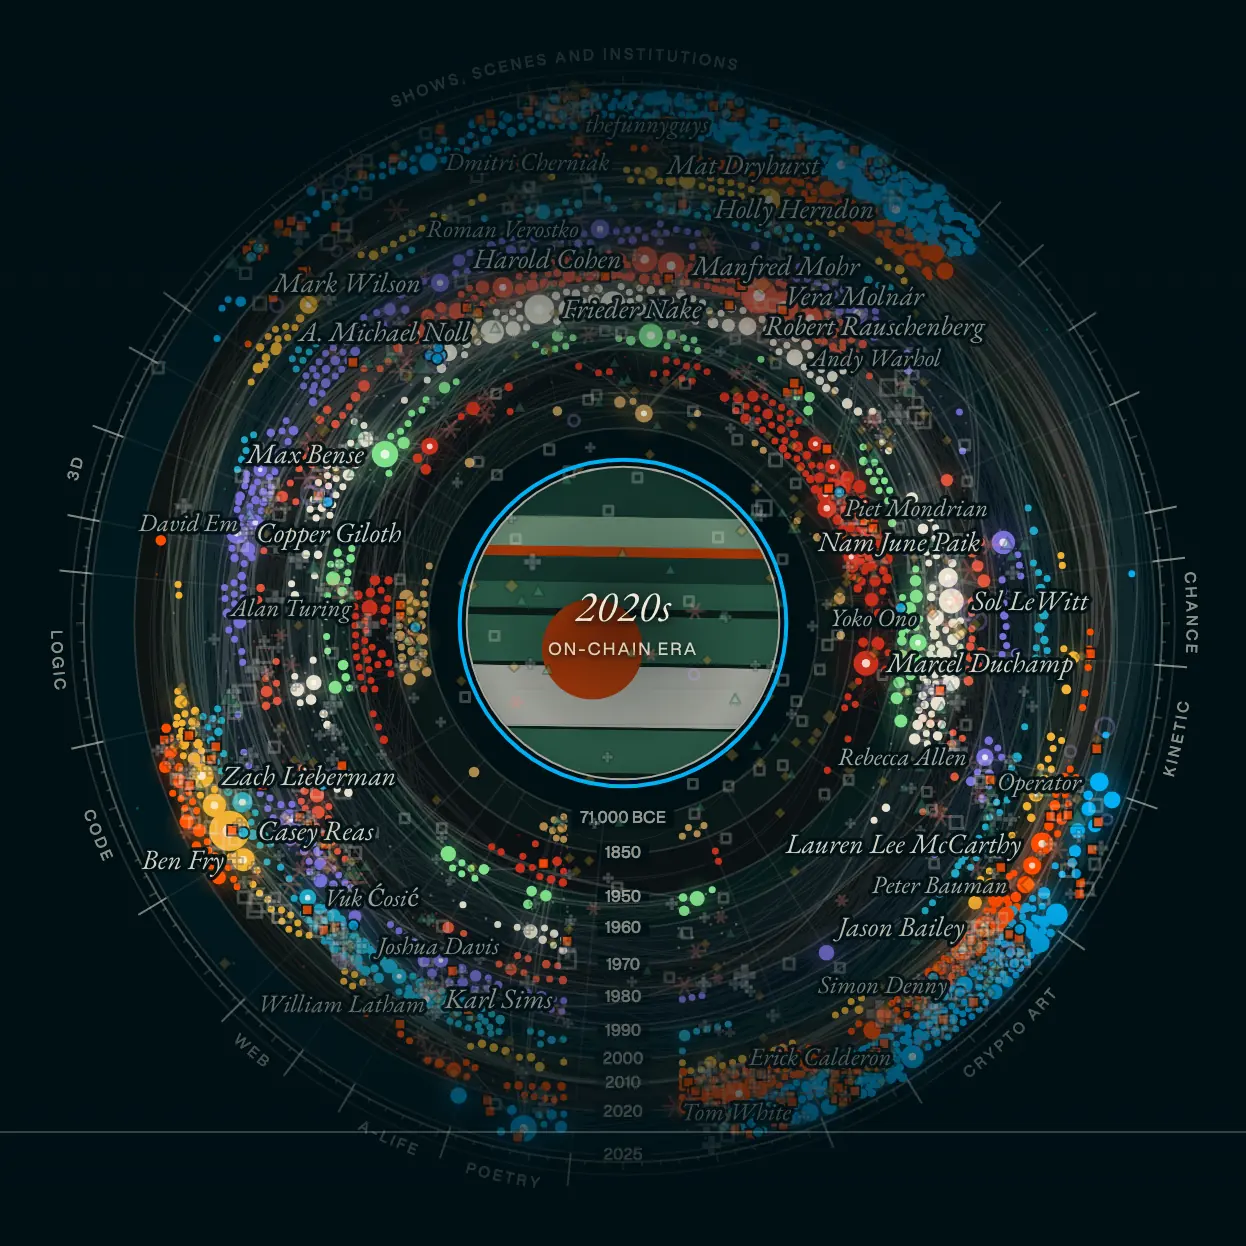
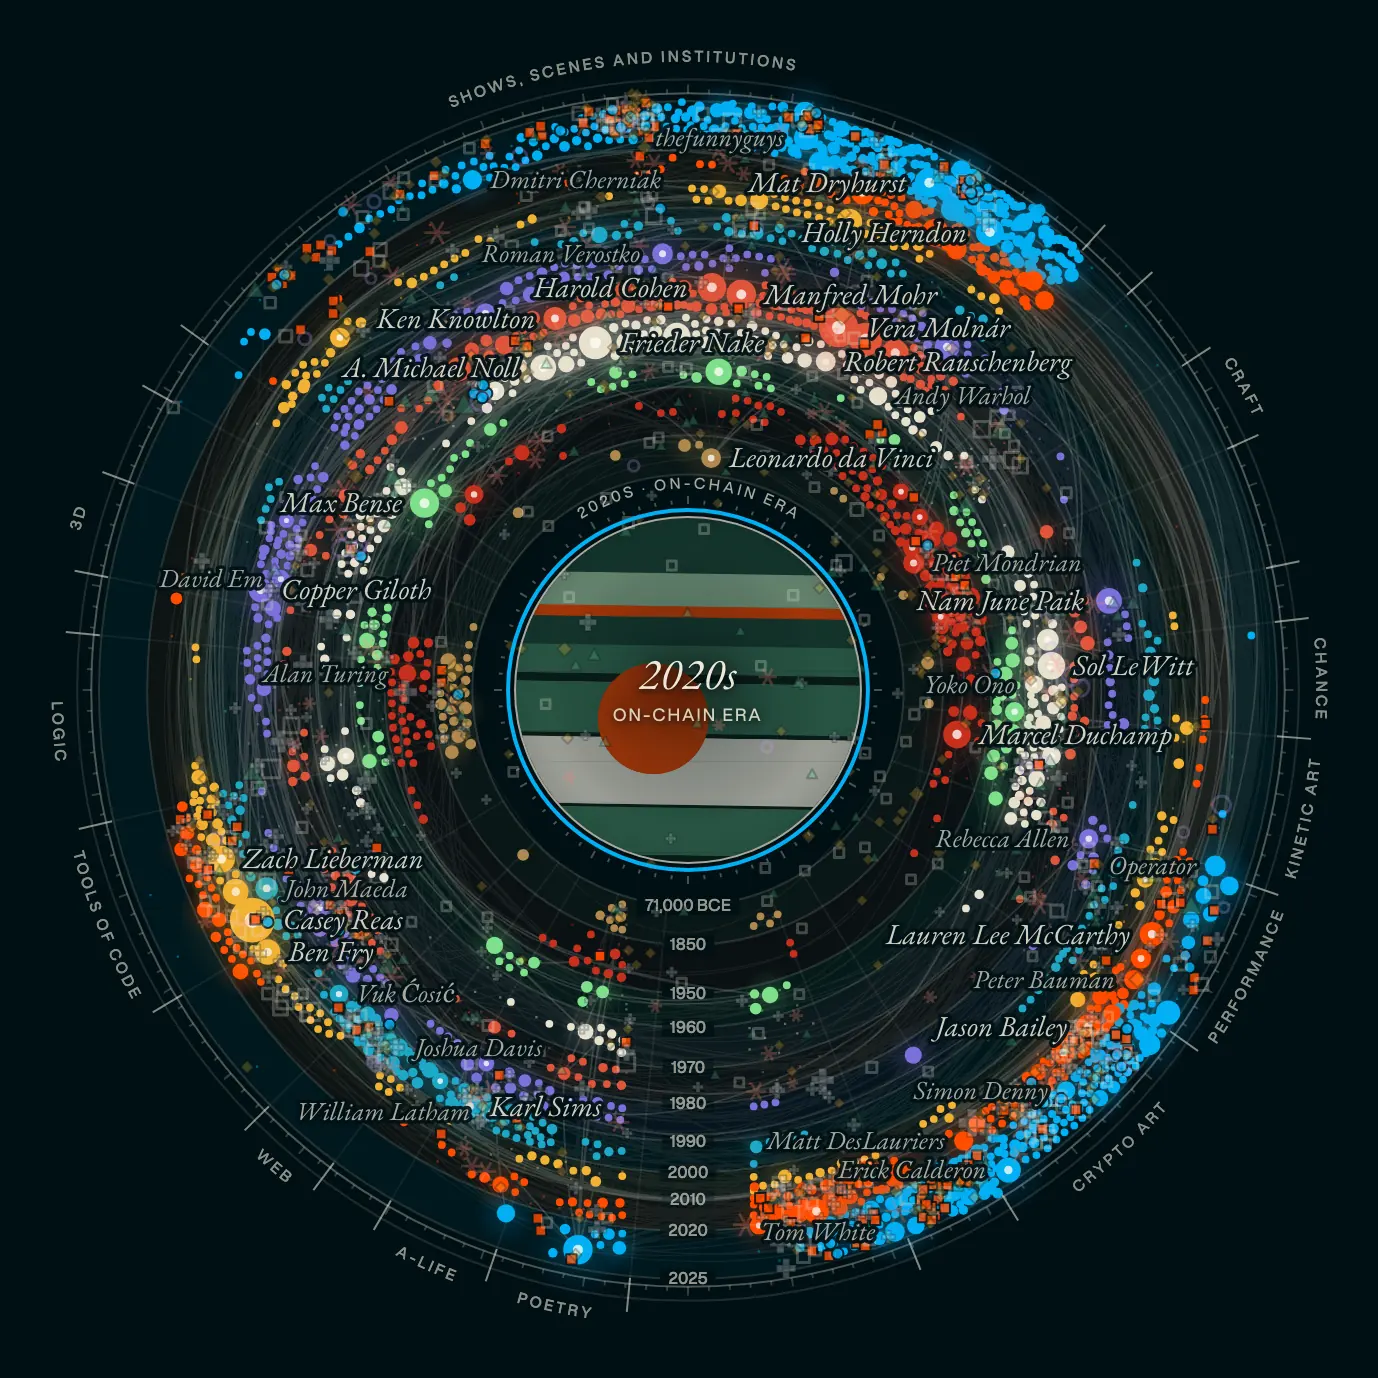
subjects: update

diff --git a/subjects/assets/views/people.css b/subjects/assets/views/people.css
@@ -583,3 +583,20 @@ button.pv-chip.is-tag:hover{border-style:solid}
 .pp.sl-hero #pp-results li{display:flex;align-items:center;gap:8px}
 .pp.sl-hero #pp-results .r-go{margin-left:6px;color:inherit;opacity:.55;text-decoration:none;padding:0 4px}
 .pp.sl-hero #pp-results .r-go:hover{opacity:1;color:#FF4C00}
+/* 9 Oct 2026 (Peter): the Subjects hero's split view on wide screens. The masthead and every map control sit in a left
+   column (the page inset + min(42vw,700px)); the ring alone fills the right at full height, centred on its own side
+   (the stage starts at --col, so CX = its width / 2). The page head turns it on (html.sx-split -> .pp.sl-split). */
+@media (min-width:1100px){
+  .pp.sl-hero.sl-split{--Lw:min(42vw,700px);--col:calc(var(--L) + var(--Lw) + clamp(32px,3vw,56px));--off:calc(var(--L) - var(--col));
+    --mb:calc(clamp(16px,2vw,30px) + clamp(30px,7.4vw,124px) * .86 + 14px + clamp(11px,1.02vw,14.7px) * 4.35 + clamp(12px,1.3vw,19px))}
+  .pp.sl-hero.sl-split .pp-stage{margin-left:var(--col);flex:1 1 auto;overflow:visible}
+  .pp.sl-hero.sl-split .pp-stage::before{background:none}
+  .pp.sl-hero.sl-split .pp-stage::after{display:none}
+  .pp.sl-hero.sl-split::after{content:"";position:absolute;z-index:7;top:0;bottom:0;left:var(--col);border-left:1px solid rgba(247,244,234,.14);pointer-events:none}
+  .pp.sl-hero.sl-split .pp-find{left:var(--off);right:auto;width:var(--Lw);top:calc(var(--mb) + 34px)}
+  .pp.sl-hero.sl-split #sl-kinds{left:var(--off);max-width:var(--Lw);bottom:auto;top:calc(var(--mb) + 104px)}
+  .pp.sl-hero.sl-split #pp-key{left:var(--off);right:auto;bottom:150px}
+  .pp.sl-hero.sl-split #sl-mode{left:var(--off);bottom:84px}
+  .pp.sl-hero.sl-split .sl-time{left:var(--off);transform:none;width:var(--Lw);bottom:30px}
+  .pp.sl-hero.sl-split #pp-zoom{right:28px;bottom:28px}
+}

diff --git a/subjects/subjects-index.js b/subjects/subjects-index.js
@@ -70,7 +70,8 @@
         (CALM ? 'window.LR_SL_CALM=1;' : '') + (HERO ? 'window.LR_SL_HERO=1;' : '') + 'window.LR_DATA=' + JSON.stringify(P_RAW) + ';window.LR_SL_DATA=' + JSON.stringify(RAW) + ';window.LR_PARAMS={"token":""};' +
         (kindOf() != null ? 'window.LR_SL_TAB=' + kindOf() + ';' : '') + (sortOf() ? 'window.LR_SL_SORT="az";' : '') + '<\/script>';
       // the subjects layout from the frame's first paint (the engine would add it only once it starts)
-      if (CALM) h = h.replace('<main id="pp" class="pp ', '<main id="pp" class="pp sl-on ' + (HERO ? 'sl-hero ' : ''));
+      // 9 Oct 2026 (Peter): wide-screen split view; the page head switches it on (html.sx-split), so the frame matches from its first paint
+      if (CALM) h = h.replace('<main id="pp" class="pp ', '<main id="pp" class="pp sl-on ' + (HERO ? 'sl-hero ' : '') + (HERO && document.documentElement.classList.contains('sx-split') ? 'sl-split ' : ''));
       h = h.replace('<!--LR-EMBED-HEAD-->', head).replace(/(href|src)="assets\//g, '$1="' + P_BASE + 'assets/');
       fr.srcdoc = h;
       box.appendChild(fr);
